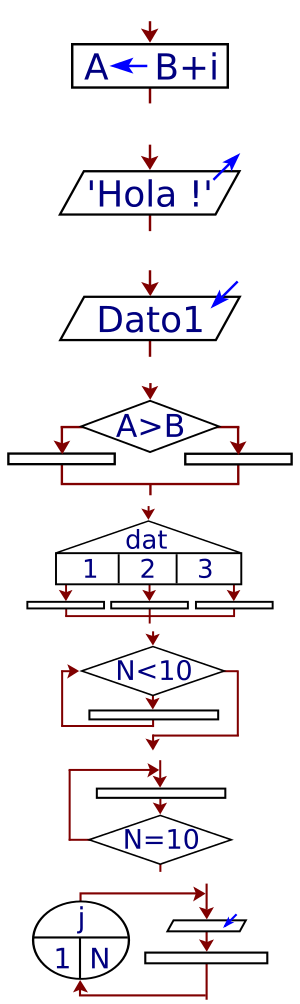
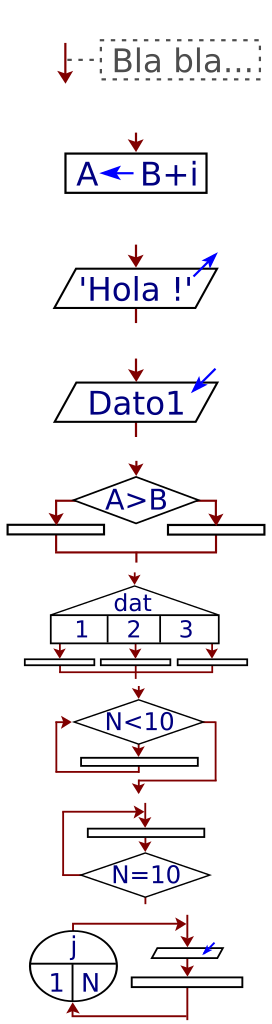
se pueden agregar comentarios en el diagrama de flujo clasico

Changed region(s): [[0.0, 0.1235, 1.0, 1.0], [0.2059, 0.0, 0.8824, 0.0926], [0.9412, 0.0309, 0.9706, 0.0926]]

diff --git a/psdraw3/Draw.cpp b/psdraw3/Draw.cpp
@@ -11,6 +11,7 @@
 #include "Text.h"
 using namespace std;
 
+const int cant_shapes_in_bar = 9;
 
 class RaiiColorChanger {
 	float *p[5], v[5]; int n;
@@ -102,6 +103,7 @@ if (use_textures) {
 }
 #endif
 }
+
 static void DrawMenuAndShapeBar() {
 	glLineWidth(menu_line_width);
 	glColor3fv(color_menu_back);
@@ -127,7 +129,7 @@ static void DrawMenuAndShapeBar() {
 	glVertex2i(win_w-shapebar_size,win_h);
 	if (shapebar) {
 		
-		int y=win_h, x=win_w-shapebar_size, sh=win_h/8;
+		int y=win_h, x=win_w-shapebar_size, sh=win_h/cant_shapes_in_bar;
 		
 		if(shapebar_sel>0) {
 			glEnd();
@@ -148,9 +150,9 @@ if (use_textures) {
 		texture_shapes.Select();
 		glColor3f(1,1,1);
 		glBegin(GL_QUADS);
-		float dy=win_h/8, th0=0, th1=1.0/8, dth=1.0/8;
-		float x0=win_w-shapebar_size, x1=win_w, y0=0, y1=win_h/8.0; 
-		float ratio=float(shapebar_size)/win_h/8;
+		float dy=win_h/cant_shapes_in_bar, th0=0, th1=1.0/cant_shapes_in_bar, dth=1.0/cant_shapes_in_bar;
+		float x0=win_w-shapebar_size, x1=win_w, y0=0, y1=win_h/float(cant_shapes_in_bar); 
+		float ratio=float(shapebar_size)/win_h/(cant_shapes_in_bar-1);
 		if (ratio>texture_shapes.r) {
 			float dx=(x1-x0)*(1-texture_shapes.r/ratio)/2;
 			x0+=dx; x1-=dx;
@@ -158,7 +160,7 @@ if (use_textures) {
 			float dy=(y1-y0)*(1-ratio/texture_shapes.r)/2;
 			y0+=dy; y1-=dy;
 		}
-		for(int i=0;i<8;i++) {
+		for(int i=0;i<cant_shapes_in_bar;i++) {
 			glTexCoord2f(0*texture_shapes.max_s,th0*texture_shapes.max_t); glVertex2f(x0,y0);
 			glTexCoord2f(1*texture_shapes.max_s,th0*texture_shapes.max_t); glVertex2f(x1,y0);
 			glTexCoord2f(1*texture_shapes.max_s,th1*texture_shapes.max_t); glVertex2f(x1,y1);
@@ -169,7 +171,7 @@ if (use_textures) {
 		glDisable(GL_TEXTURE_2D);
 		glBegin(GL_LINES);
 		glColor3fv(color_menu);
-		for(int i=0,y0=win_h-dy;i<7;i++,y0-=dy) {
+		for(int i=0,y0=win_h-dy;i<cant_shapes_in_bar-1;i++,y0-=dy) {
 			glVertex2i(win_w-shapebar_size,y0);
 			glVertex2i(win_w,y0);
 		}
@@ -377,19 +379,26 @@ if (use_textures) {
 	// shapebar
 	if (shapebar) {
 		switch(shapebar_sel) {
-		case 1: SetStatus(color_selection,"Asignacion/Dimension/Definicion"); break;
-		case 2: SetStatus(color_selection,"Escribir (instruccion para generar salidas)"); break;
-		case 3: SetStatus(color_selection,"Leer (instruccion para obtener entradas)"); break;
-		case 4: SetStatus(color_selection,"Si-Entonces (estructura condicional simple)"); break;
-		case 5: SetStatus(color_selection,"Segun (estructura de seleccion multiple)"); break;
-		case 6: SetStatus(color_selection,"Mientras (estructura repetitiva)"); break;
-		case 7: 
+		case 1: 
+			SetStatus(color_selection,"Comentario (texto libre que el interprete ignora)"); break;
+		case 2: 
+			if (canvas->GetModifiers()&MODIFIER_SHIFT) 
+				SetStatus(color_selection,"Dimension/Definicion)");
+			else
+				SetStatus(color_selection,"Asignacion (shift para Dimension/Definicion)"); 
+			break;
+		case 3: SetStatus(color_selection,"Escribir (instruccion para generar salidas)"); break;
+		case 4: SetStatus(color_selection,"Leer (instruccion para obtener entradas)"); break;
+		case 5: SetStatus(color_selection,"Si-Entonces (estructura condicional simple)"); break;
+		case 6: SetStatus(color_selection,"Segun (estructura de seleccion multiple)"); break;
+		case 7: SetStatus(color_selection,"Mientras (estructura repetitiva)"); break;
+		case 8: 
 			if (canvas->GetModifiers()&MODIFIER_SHIFT)
 				SetStatus(color_selection,"Repetir-Mientras que (estructura repetitiva)"); 
 			else
 				SetStatus(color_selection,"Repetir-Hasta que (estructura repetitiva)");
 			break;
-		case 8: 
+		case 9: 
 			if (canvas->GetModifiers()&MODIFIER_SHIFT)
 				SetStatus(color_selection,"Para Cada (estructura repetitiva)"); 
 			else
@@ -655,22 +664,23 @@ void display_cb() {
 	if (edit_on) { DrawMenuAndShapeBar(); DrawTrash(); }
 	if (edit && !mouse && !status_color) {
 		switch (edit->type) {
-		case ET_LEER: SetStatus(color_selection,"Lista de variables a leer, separadas por coma."); break;
-		case ET_PROCESO: SetStatus(color_selection,edit->lpre=="Proceso "?"Nombre del proceso.":"Prototipo del subproceso."); break;
-		case ET_ESCRIBIR: SetStatus(color_selection,"Lista de expresiones a mostrar, separadas por comas."); break;
-		case ET_SI: SetStatus(color_selection,"Expresion logica."); break;
-		case ET_SEGUN: SetStatus(color_selection,"Expresion de control para la estructura."); break;
-		case ET_OPCION: SetStatus(color_selection,"Posible valor para la expresion de control."); break;
+		case ET_LEER: SetStatus(color_selection,"? Lista de variables a leer, separadas por coma."); break;
+		case ET_PROCESO: SetStatus(color_selection,edit->lpre=="Proceso "?"? Nombre del proceso.":"? Prototipo del subproceso."); break;
+		case ET_COMENTARIO: SetStatus(color_selection,"? Texto libre, sera ignorado por el interprete."); break;
+		case ET_ESCRIBIR: SetStatus(color_selection,"? Lista de expresiones a mostrar, separadas por comas."); break;
+		case ET_SI: SetStatus(color_selection,"? Expresion logica."); break;
+		case ET_SEGUN: SetStatus(color_selection,"? Expresion de control para la estructura."); break;
+		case ET_OPCION: SetStatus(color_selection,"? Posible valor para la expresion de control."); break;
 		case ET_PARA: 
-			if (edit->variante)	SetStatus(color_selection,"Identificador temporal para el elemento del vector/matriz.");
-			else SetStatus(color_selection,"Identificador de la variable de control (contador)."); 
+			if (edit->variante)	SetStatus(color_selection,"? Identificador temporal para el elemento del vector/matriz.");
+			else SetStatus(color_selection,"? Identificador de la variable de control (contador)."); 
 			break;
-		case ET_MIENTRAS: SetStatus(color_selection,"Expresion de control (logica)."); break;
-		case ET_REPETIR: SetStatus(color_selection,"Expresion de control (logica)."); break;
-		case ET_ASIGNAR: SetStatus(color_selection,"Asignacion o instruccion secuencial."); break;
+		case ET_MIENTRAS: SetStatus(color_selection,"? Expresion de control (logica)."); break;
+		case ET_REPETIR: SetStatus(color_selection,"? Expresion de control (logica)."); break;
+		case ET_ASIGNAR: SetStatus(color_selection,"? Asignacion o instruccion secuencial."); break;
 		case ET_AUX_PARA: 
-			if (edit->parent->variante)	SetStatus(color_selection,"Identificador del vector/matriz a recorrer.");
-			else SetStatus(color_selection,edit->parent->child[1]==edit?"Valor inicial para el contador.":(edit->parent->child[2]==edit?"Paso, incremento del contador por cada iteracion.":"Valor final para el contador.")); 
+			if (edit->parent->variante)	SetStatus(color_selection,"? Identificador del vector/matriz a recorrer.");
+			else SetStatus(color_selection,edit->parent->child[1]==edit?"? Valor inicial para el contador.":(edit->parent->child[2]==edit?"? Paso, incremento del contador por cada iteracion.":"? Valor final para el contador.")); 
 			break;
 		default:;
 		}

diff --git a/psdraw3/Text.cpp b/psdraw3/Text.cpp
@@ -1,0 +1,105 @@
+#include "Text.h"
+#include "GLstuff.h"
+#include "Textures.h"
+#include <iostream>
+
+bool use_textures_font = 
+#ifdef _USE_FONT
+	true
+#else
+	false
+#endif
+	;
+
+void GetTextSize(const string &label, int &w, int &h) {
+	w=label.size()*10;
+	h=15;
+}
+
+void DrawTextRaster(const float *color, int x, int y, const char *t) {
+	glColor3fv(color);
+	glRasterPos2f(x,y);
+	int i=0;
+	while (t[i]!='\0') glutBitmapCharacter(GLUT_BITMAP_9_BY_15,t[i++]);
+//	glPushMatrix();
+//	glTranslatef(x,y,0);
+//	glScalef(.08,.12,1);
+//	while (t[i]!='\0') dibujar_caracter(t[i++]);
+//	glPopMatrix();
+}
+
+//void DrawText(const float *color, int x, int y, const char *t) {
+//	glColor3fv(color);
+//	glPushMatrix();
+//	glTranslated(x,y,0);
+//	glScaled(.08,.12,.1);
+//	begin_texto();
+//	while (*t) 
+//		dibujar_caracter(*(t++));
+//	end_texto();
+//	glPopMatrix();
+//}
+
+void ys_dibujar_caracter(const char chr);
+
+static float x_texto = 0;
+
+void begin_texto( ) {
+#ifdef _USE_FONT
+	if (!use_textures_font) return;
+	x_texto = 0;
+	glEnable(GL_TEXTURE_2D);
+	texture_font.Select();
+	glBegin(GL_QUADS);
+#endif
+}
+
+void end_texto( ) {
+#ifdef _USE_FONT
+	if (!use_textures_font) return;
+	glEnd();
+	glDisable(GL_TEXTURE_2D);
+#endif
+}
+
+
+void dibujar_caracter(const char chr) { 
+#ifdef _USE_FONT
+	if (use_textures_font) { 
+		const float f=1.f/16.f;
+		const int w=120, h=150,y0=-25;
+		float x0=x_texto;
+		unsigned char ch=chr;
+		int r=15-ch/16, c=ch%16;
+		glTexCoord2f(c*f,r*f);
+		glVertex2i(x0,y0);
+		glTexCoord2f(c*f+f,r*f);
+		glVertex2i(x0+w,y0);
+		glTexCoord2f(c*f+f,r*f+f);
+		glVertex2i(x0+w,y0+h);
+		glTexCoord2f(c*f,r*f+f);
+		glVertex2i(x0,y0+h);
+		x_texto += 800.0/7.0;
+	} else 
+#endif
+	{
+		ys_dibujar_caracter(chr); return;
+		glTranslated(800.0/7.0,0.0,0.0);
+	}
+
+	
+	
+}
+
+void dibujar_caracter(const char chr, bool extra) { 
+#ifdef _USE_FONT
+	if (use_textures_font) { 
+		dibujar_caracter(chr);
+	} else 
+#endif
+	{
+		x_texto += 150.0/7.0;
+		glTranslated(150.0/7.0,0.0,0.0);
+	}
+}
+

diff --git a/psdraw3/Entity.cpp b/psdraw3/Entity.cpp
@@ -101,6 +101,7 @@ Entity::Entity(ETYPE _type, string _label) :type(_type),label(_label) {
 }
 
 Entity::~Entity() {
+	if (this==edit) UnsetEdit();
 	if (entity_to_del==this) entity_to_del=NULL;
 	for (int i=0;i<n_child;i++) {
 		Entity *aux=child[i],*aux2;
@@ -381,7 +382,7 @@ void Entity::DrawText() {
 	for (unsigned int i=0;i<lpre.size();i++) {
 		dibujar_caracter(lpre[i]);
 	}
-	glColor3fv(edit==this?color_selection:(type==ET_PROCESO?color_arrow:color_label));
+	glColor3fv(edit==this?color_selection:(type==ET_PROCESO?color_arrow:(type==ET_COMENTARIO?color_comment:color_label)));
 	int llen=label.size(), crop_len = IsLabelCropped();
 	if (crop_len) llen=crop_len-3;
 	for (int i=0;i<llen;i++) {
@@ -577,7 +578,9 @@ void Entity::SetPosition (int x0, int y0) {
 
 
 void Entity::UnsetEdit ( ) {
-	if (enable_partial_text)
-		EditLabel(27);
+	if (enable_partial_text) {
+		Entity *prev=this;
+		prev->EditLabel(27);
+	}
 }
 

diff --git a/psdraw3/Canvas.cpp b/psdraw3/Canvas.cpp
@@ -20,6 +20,7 @@ BEGIN_EVENT_TABLE(Canvas, wxGLCanvas)
 	EVT_RIGHT_UP(Canvas::OnMouseRightUp)
 	EVT_MIDDLE_DOWN(Canvas::OnMouseMiddleDown)
 	EVT_MIDDLE_UP(Canvas::OnMouseMiddleUp)
+	EVT_LEFT_DCLICK(Canvas::OnMouseDClick)
 	EVT_MOTION(Canvas::OnMouseMove)
 	EVT_ERASE_BACKGROUND(Canvas::OnEraseBackground)
 	EVT_TIMER(wxID_ANY, Canvas::OnRedrawTime)
@@ -69,6 +70,8 @@ void Canvas::OnPaint(wxPaintEvent& event) {
 		cursores[Z_CURSOR_NONE]=wxCursor(wxCURSOR_SIZING);
 		cursores[Z_CURSOR_MOVE]=wxCursor(wxCURSOR_SIZING);
 	}
+	glLineStipple(zoom,0x0707);
+	
 	display_cb();
 	if (old_cursor!=mouse_cursor) wxSetCursor(cursores[mouse_cursor]);
 	glFlush();
@@ -163,5 +166,9 @@ void Canvas::OnKeyUp (wxKeyEvent & event) {
 
 void Canvas::OnChar (wxKeyEvent & event) {
 	keyboard_cb(event.GetKeyCode());
+}
+
+void Canvas::OnMouseDClick (wxMouseEvent & event) {
+	mouse_dcb(event.GetX(),event.GetY());
 }
 

diff --git a/psdraw3/Entity.h b/psdraw3/Entity.h
@@ -24,7 +24,7 @@ Tipos de entidades:
 	ET_PARA: para, 4 hijos, el 0 es el contenido del bucle, el 1,2,3 son val inicial, paso y final, estan fijos, los crea el ctor, la variante es para cada, donde hijo 2 tiene el arreglo
 	ET_AUX_PARA: hijos 1,2,3 y de para
 */
-enum ETYPE { ET_LEER, ET_PROCESO, ET_ESCRIBIR, ET_ASIGNAR, ET_SI, ET_SEGUN, ET_OPCION, ET_PARA, ET_MIENTRAS, ET_REPETIR, ET_AUX_PARA, ET_COUNT };
+enum ETYPE { ET_COMENTARIO, ET_LEER, ET_PROCESO, ET_ESCRIBIR, ET_ASIGNAR, ET_SI, ET_SEGUN, ET_OPCION, ET_PARA, ET_MIENTRAS, ET_REPETIR, ET_AUX_PARA, ET_COUNT };
 
 struct Entity {
 	static bool alternative_io; ///< utilizar simbolos alternativos para las instrucciones Leer y Escribir

diff --git a/psdraw3/Global.h b/psdraw3/Global.h
@@ -80,8 +80,9 @@ extern Entity *all_any;
 
 // colores
 extern const float color_border[3]; // borde de la forma de una entidad
+extern const float color_comment[3]; // borde de la forma de una entidad
 extern const float color_label[3]; // texto de la etiqueta de una entidad
-extern const float color_label_fix[3]; // texto de la etiqueta de una entidad
+extern const float color_label_fix[3]; // texto de la parte (pre)fija de la etiqueta de una entidad
 extern float color_arrow[3]; // flechas que guian el flujo y unen entidades
 extern const float color_selection[3]; // texto o borde de forma seleccionada
 extern float color_shape[ET_COUNT+1][3]; // fondo de la forma

diff --git a/psdraw3/Events.h b/psdraw3/Events.h
@@ -27,9 +27,10 @@ enum MOUSE_BUTTONS { ZMB_MIDDLE, ZMB_LEFT, ZMB_RIGHT, ZMB_WHEEL_UP, ZMB_WHEEL_DO
 // old glut callbacks
 void reshape_cb (int w, int h);
 void idle_func();
-void passive_motion_cb(int x, int y);
-void motion_cb(int x, int y);
-void mouse_cb(int button, int state, int x, int y);
+void passive_motion_cb(int x, int y); // movimiento sin drag
+void motion_cb(int x, int y); // drag
+void mouse_cb(int button, int state, int x, int y); // down o up de cualquier bonton (incluido wheel)
+void mouse_dcb(int x, int y); // doble-click del izquierdo
 void keyboard_cb(unsigned char key/*, int x, int y*/);
 void keyboard_esp_cb(int key/*, int x, int y*/);
 	

diff --git a/psdraw3/Text.h b/psdraw3/Text.h
@@ -1,0 +1,18 @@
+#ifndef TEXT_H
+#define TEXT_H
+#include <string>
+using namespace std;
+
+extern bool use_textures_font;
+
+void begin_texto(); 
+void dibujar_caracter(const char chr); 
+void dibujar_caracter(const char chr, bool extra);
+void end_texto(); 
+
+void GetTextSize(const string &label, int &w, int &h);
+//void DrawText(const float *color, int x, int y, const char *t);
+void DrawTextRaster(const float *color, int x, int y, const char *t);
+
+#endif
+
